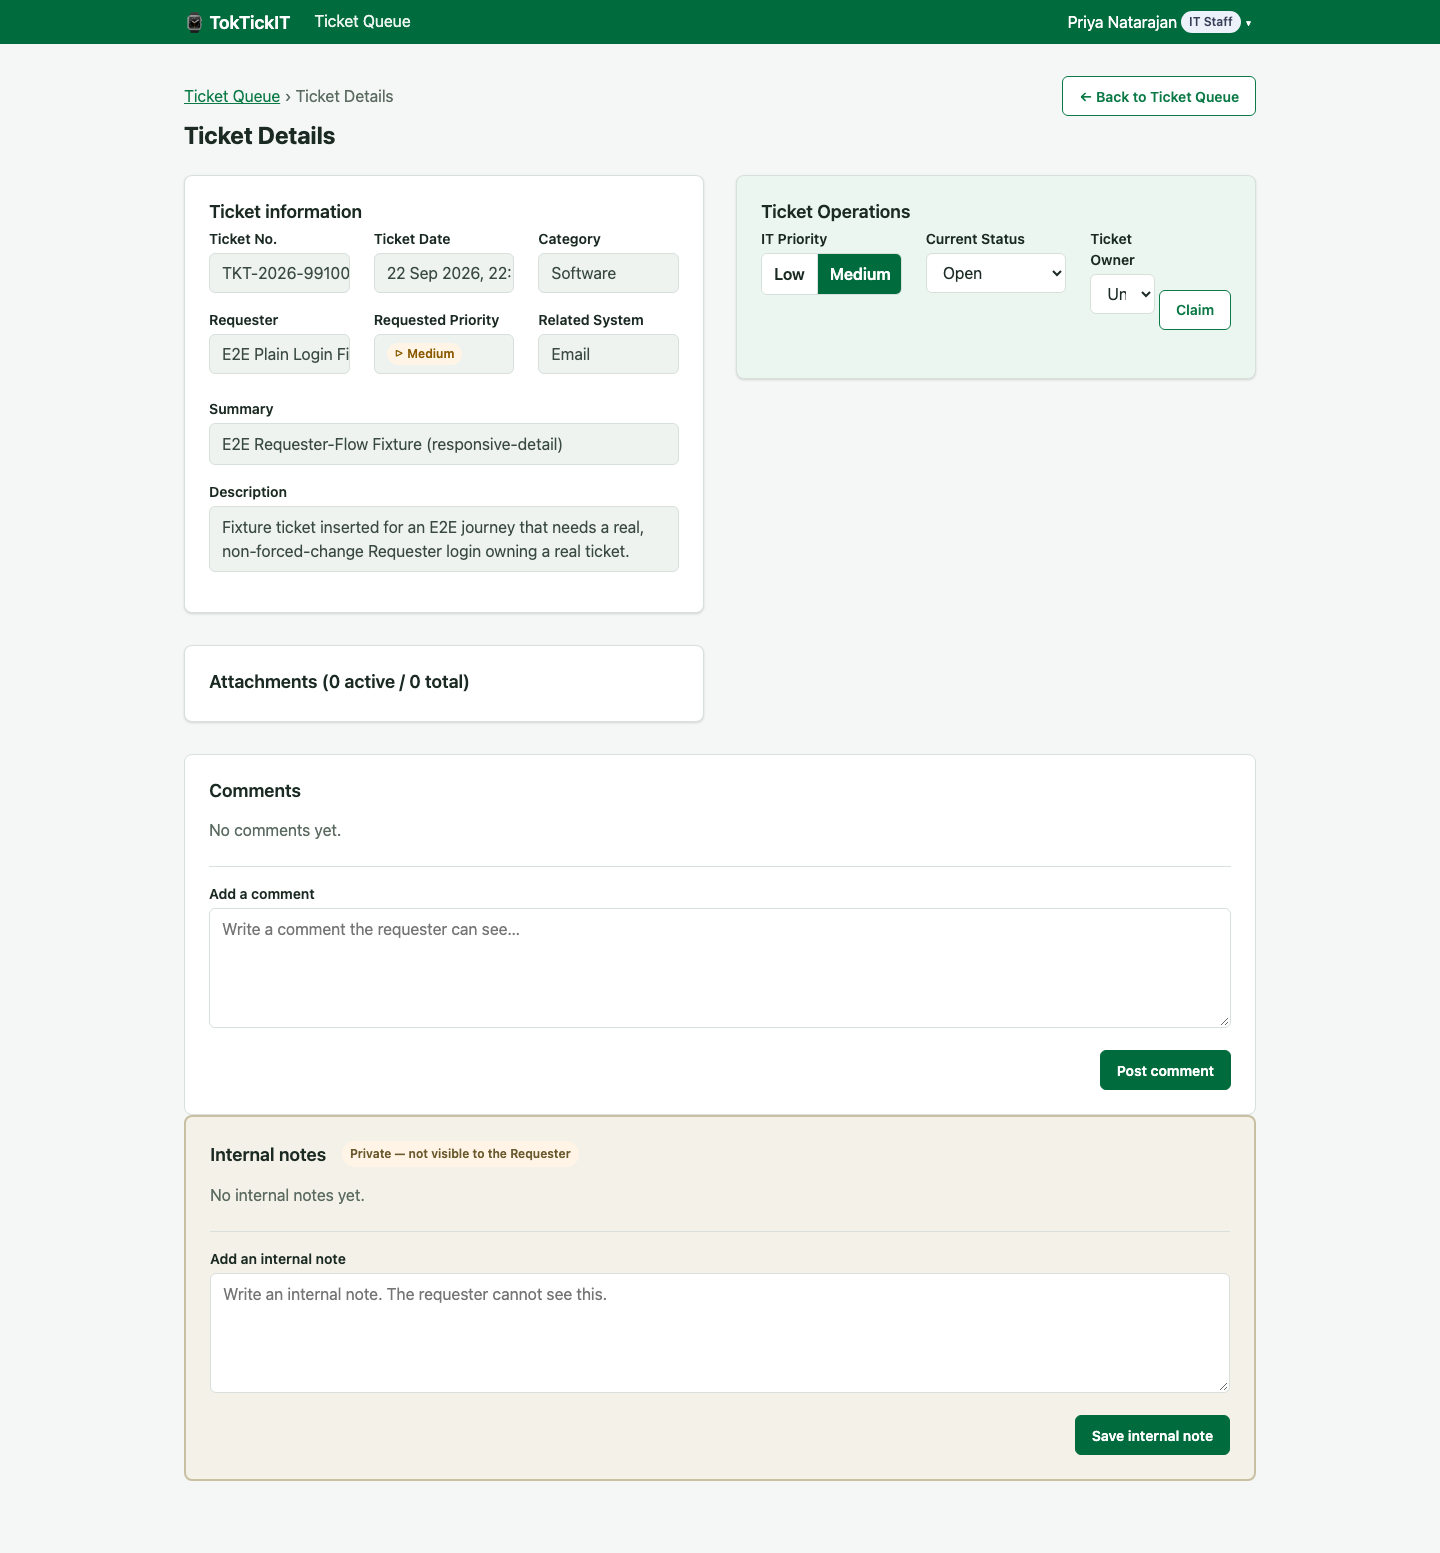
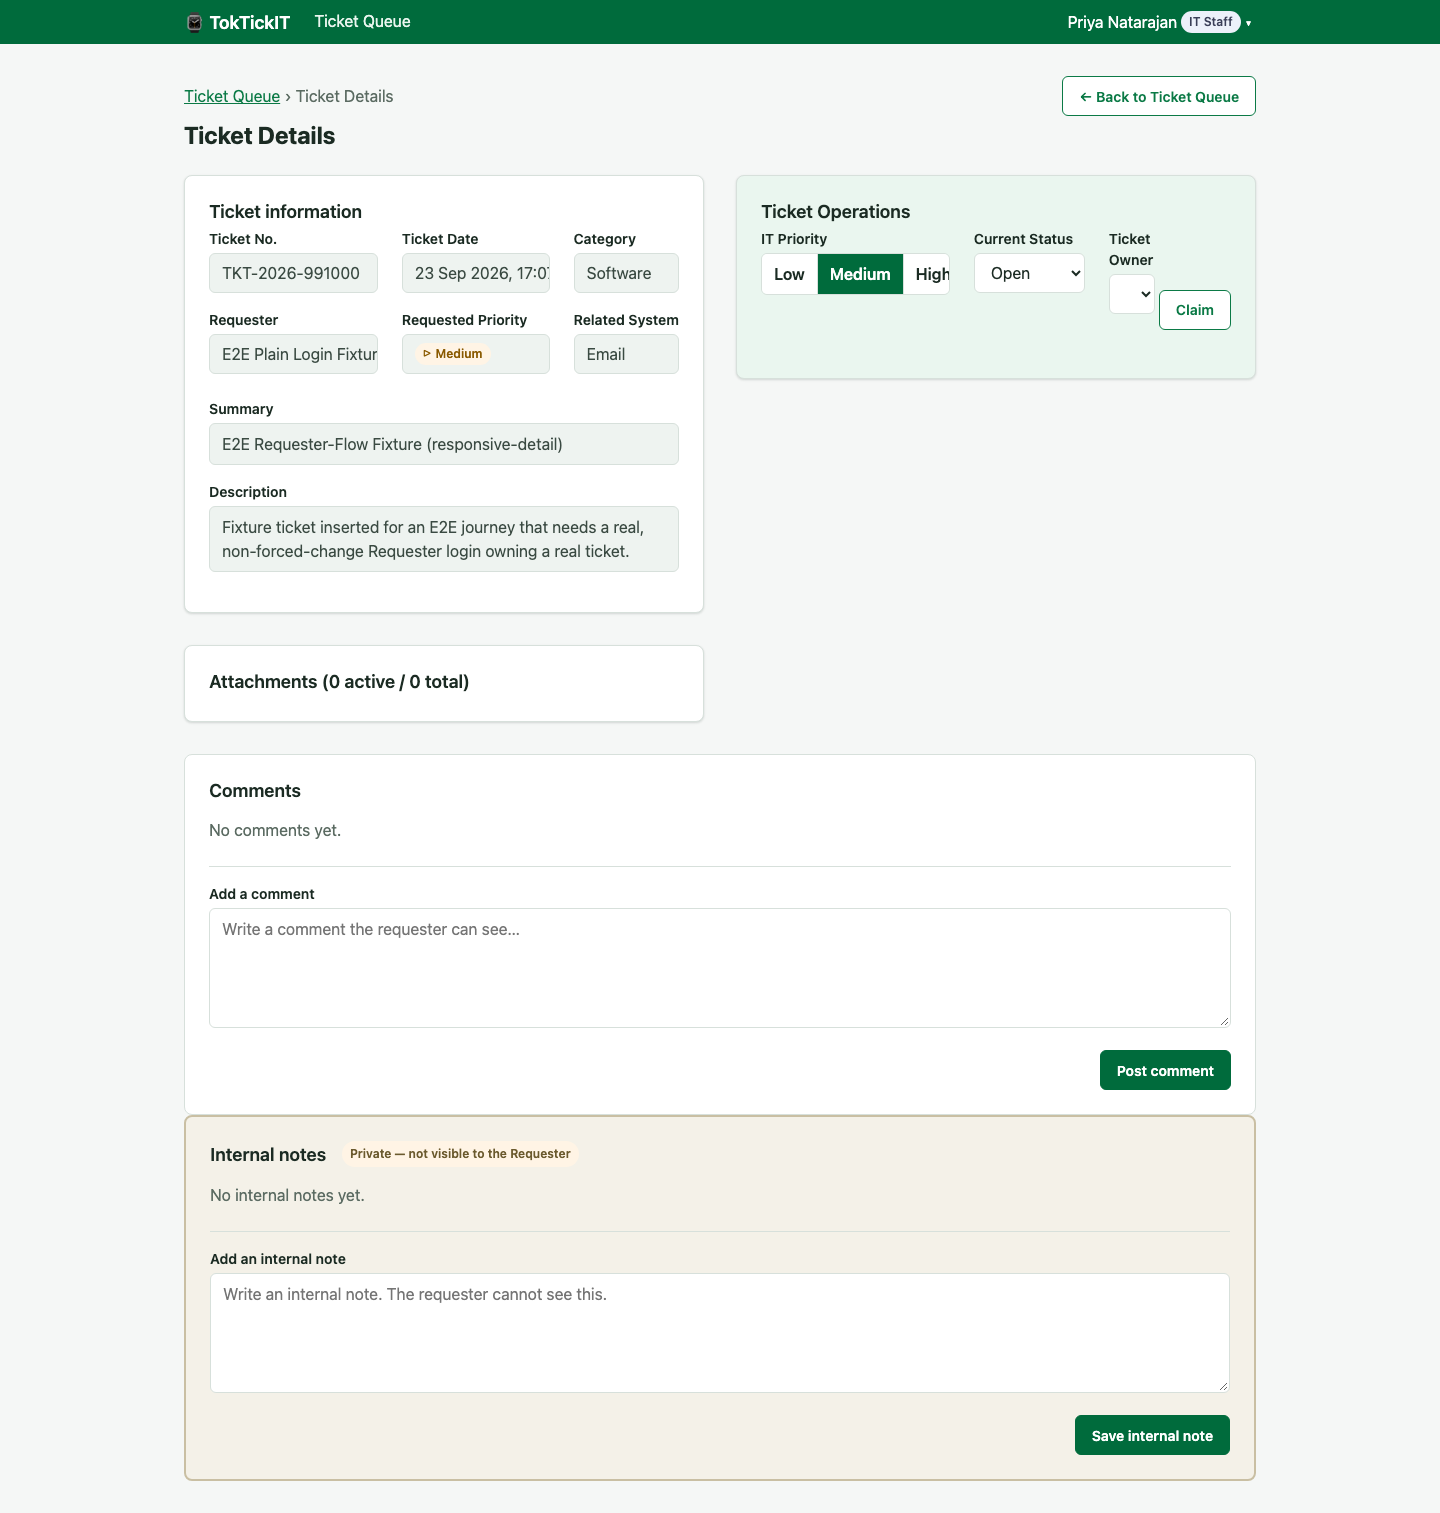
fix(client): stop clipping Ticket No./Requester on Staff Ticket Detail
Real bug found during PR #83 review: the Ticket Information grid's equal
3-way column split left the "Ticket No." field too narrow for a real,
correctly-formatted TKT-YYYY-NNNNNN value (15 characters), clipping the
last digit with no ellipsis visible. Re-weighted the read-only grid to
1.6fr/1.4fr/1fr (Ticket No./Requester and Ticket Date both need more room
than Category/Related System's short words), and gave the Ticket
Operations card's own reuse of the same grid class a separate
--operations modifier at 1.7fr/1fr/1.1fr, since its column 1 holds the
three-segment IT Priority control, which needs materially more room than
any single text field to render "Medium"/"High" without clipping.

Regenerated the affected screenshot; R-01 (no horizontal overflow) still
passes.

diff --git a/client/src/screens/StaffTicketDetailScreen.css b/client/src/screens/StaffTicketDetailScreen.css
@@ -174,22 +174,42 @@
 }
 
 /* 3-up / 2-up / 1-up per ui-spec.md §10 "Responsive", same convention as
-   the Requester screen's own grid. */
+   the Requester screen's own grid. Columns re-weighted (1.6fr 1.4fr 1fr,
+   not an equal 3-way split): column 1 holds Ticket No. (the fixed-length
+   "TKT-YYYY-NNNNNN" value, 15 characters) and Requester; column 2 holds
+   Ticket Date, whose formatted value ("23 Sep 2026, 15:32") is longer than
+   Category/Related System's short words in column 3. An equal split left
+   both column 1 and column 2 too narrow for their real values —
+   `.zen-staff-detail__field-value`'s own ellipsis was firing on ordinary,
+   correct values, not unusually long ones. */
 .zen-staff-detail__grid {
   display: grid;
-  grid-template-columns: repeat(3, 1fr);
+  grid-template-columns: 1.6fr 1.4fr 1fr;
   gap: var(--zen-space-field-gap) var(--zen-space-group-gap);
   margin-bottom: var(--zen-space-group-gap);
 }
 
+/* The Ticket Operations card reuses `.zen-staff-detail__grid` for its own,
+   differently-shaped row (IT Priority / Current Status / Ticket Owner)
+   rather than Ticket Information's two-row field grid — column 1 here
+   holds the three-segment IT Priority control (SegmentedControl.tsx),
+   which needs materially more room than any single text field to fit
+   "Medium"/"High" without clipping, so it gets its own, wider ratio
+   instead of inheriting the read-only grid's. */
+.zen-staff-detail__grid--operations {
+  grid-template-columns: 1.7fr 1fr 1.1fr;
+}
+
 @media (max-width: 991px) {
-  .zen-staff-detail__grid {
+  .zen-staff-detail__grid,
+  .zen-staff-detail__grid--operations {
     grid-template-columns: 1fr 1fr;
   }
 }
 
 @media (max-width: 767px) {
-  .zen-staff-detail__grid {
+  .zen-staff-detail__grid,
+  .zen-staff-detail__grid--operations {
     grid-template-columns: 1fr;
   }
 }

diff --git a/client/src/screens/StaffTicketDetailScreen.tsx b/client/src/screens/StaffTicketDetailScreen.tsx
@@ -909,7 +909,7 @@ export function StaffTicketDetailScreen() {
             <section className="zen-staff-detail__card zen-staff-detail__card--operations">
               <h2>Ticket Operations</h2>
 
-              <div className="zen-staff-detail__grid">
+              <div className="zen-staff-detail__grid zen-staff-detail__grid--operations">
                 {/* IT Priority (ui-spec.md §10's editable table): a
                     segmented control of the three priority values, saving on
                     change. Both IT Staff and Administrator may use it
